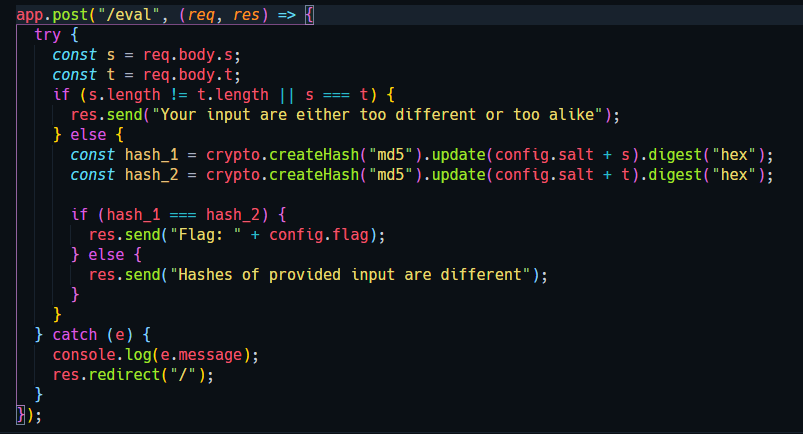
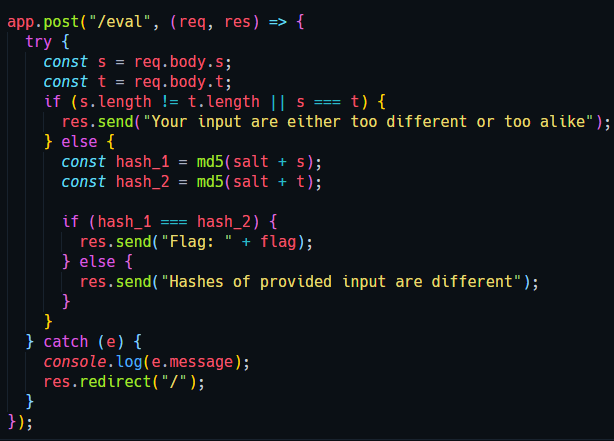
Updates L5 Q2 with problem statement

diff --git a/Level 5/Q2 (Kushal)/public/index.html b/Level 5/Q2 (Kushal)/public/index.html
@@ -6,6 +6,15 @@
 	<title>Document</title>
 </head>
 <body>
+	Rohit has created a route which is protecting your flag. He claims it is unbeatable. 
+	It takes two values <i>s</i> and <i>t</i>, prepends a string stored in variable <i>salt</i> to them and 
+	hashes them using MD5 algorithm. It gives the flag if and only if the two hashes matches.
+	Rohit is so confident it can't be beaten that he even shared it with us! It's upto you to show him
+	how wrong he is and get the flag!<br>
+	You can use the interface provided by us to test his endpoint.
+	<br>
+	<input type="text" name="s" id="s" placeholder="s">
+	<input type="text" name="t" id="t" placeholder="t">
 	<button onclick="eval()">Evaluate</button>
 	
 	<div id="result">
@@ -21,20 +30,11 @@
 	</div>
 </body>
 <script>
-	const params = new URLSearchParams(window.location.search)
-	let s = params.get('s')
-	let t = params.get('t')
 	
-	let div1 = document.createElement('div')
-	let div2 = document.createElement('div')
-
-	div1.innerHTML = s
-	div2.innerHTML = t
-
-	document.querySelector('body').prepend(div1)
-	document.querySelector('body').prepend(div2)
-
 	async function eval(){
+		const s = document.getElementById("s").value
+		const t = document.getElementById("t").value
+		document.getElementById("result").innerHTML = ""
 		const response = await fetch('/eval',{
 			method:"POST",
 			headers:{

diff --git a/Level 5/Q2 (Kushal)/app.js b/Level 5/Q2 (Kushal)/app.js
@@ -1,7 +1,7 @@
 const express = require("express");
 const bodyParser = require("body-parser");
 const path = require("path");
-const crypto = require("crypto");
+const md5 = require("./utils/md5");
 const config = require("./utils/config");
 
 const app = express();
@@ -13,6 +13,8 @@ app.get("/", (req, res) => {
   res.sendFile(__dirname + "/public/index.html");
 });
 
+const { flag, salt } = config;
+
 app.post("/eval", (req, res) => {
   try {
     const s = req.body.s;
@@ -20,11 +22,11 @@ app.post("/eval", (req, res) => {
     if (s.length != t.length || s === t) {
       res.send("Your input are either too different or too alike");
     } else {
-      const hash_1 = crypto.createHash("md5").update(config.salt + s).digest("hex");
-      const hash_2 = crypto.createHash("md5").update(config.salt + t).digest("hex");
-      
+      const hash_1 = md5(salt + s);
+      const hash_2 = md5(salt + t);
+
       if (hash_1 === hash_2) {
-        res.send("Flag: " + config.flag);
+        res.send("Flag: " + flag);
       } else {
         res.send("Hashes of provided input are different");
       }
@@ -35,4 +37,6 @@ app.post("/eval", (req, res) => {
   }
 });
 
-app.listen(config.PORT, () => console.log(`Server running at port ${config.PORT}`));
+app.listen(config.PORT, () =>
+  console.log(`Server running at port ${config.PORT}`)
+);

diff --git a/Level 5/Q2 (Kushal)/utils/md5.js b/Level 5/Q2 (Kushal)/utils/md5.js
@@ -1,0 +1,5 @@
+const crypto = require("crypto");
+
+module.exports = (str) => {
+  return crypto.createHash("md5").update(str).digest("hex");
+};
